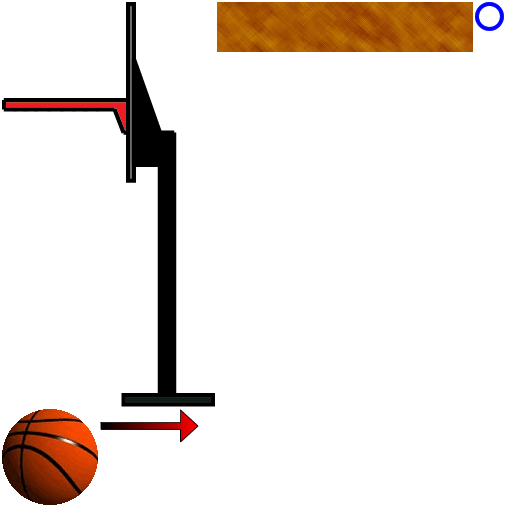
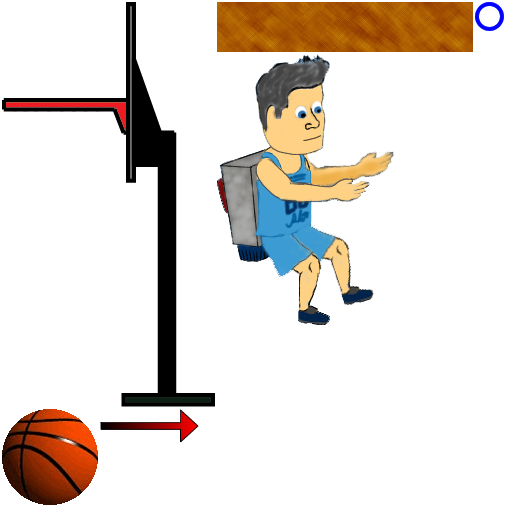
Jetpack Man added, Press Space to hover

Changed region(s): [[0.4062, 0.0938, 0.7812, 0.6562]]

diff --git a/src/com/game/logic/ShootManager.java b/src/com/game/logic/ShootManager.java
@@ -29,10 +29,12 @@ public class ShootManager implements ContactListener {
 	private Image Indicator;
 	Body body;
 	World world;
-	public ShootManager (UIManager uiManager,World world)
+	Game game;
+	public ShootManager (Game g)
 	{
-		UIManager=uiManager;	
-		this.world=world;
+		UIManager=g.UIManager;	
+		this.world=g.world;
+		game=g;
 		Image ok=UIManager.AddImage("ok", Scaling.stretch, Align.LEFT, new Vector2(0,0));
 		ok.originX=0;
 		ok.originY=ok.height/2;
@@ -61,8 +63,8 @@ public class ShootManager implements ContactListener {
 		};
 		image.height = 50;
 		image.width = 50;
-		image.x = 100;
-		image.y = 100;
+		image.x = g.player.getTutusPos().x;
+		image.y = g.player.getTutusPos().y;
 		image.originX=image.width/2;
 		image.originY=image.height/2;
 		image.visible=true;
@@ -70,8 +72,9 @@ public class ShootManager implements ContactListener {
 		
 		BodyDef boxBodyDef = new BodyDef();
 		boxBodyDef.type = BodyType.DynamicBody;
-		boxBodyDef.position.x = 125;
-		boxBodyDef.position.y = 125;
+		boxBodyDef.position.x = image.x+image.width/2;
+		boxBodyDef.position.y = image.y+image.height/2;
+		boxBodyDef.active=false;
 		body = world.createBody(boxBodyDef);
 
 		PolygonShape ps;
@@ -123,14 +126,18 @@ public class ShootManager implements ContactListener {
 		float px=body.getPosition().x;
 		float py=body.getPosition().y;
 		body.applyLinearImpulse(dx*100, dy*100, px,py);
+		body.setActive(true);
 		
 	}
 	public void Update()
 	{
 		Actor ball=UIManager.GetStage("oyun").findActor("top");
-		ball.x=body.getPosition().x-ball.width/2;
-		ball.y=body.getPosition().y-ball.height/2;
-		ball.rotation=(float) Math.toDegrees(body.getAngle());
+		if(body.isActive() && !isReady)
+		{
+			ball.x=body.getPosition().x-ball.width/2;
+			ball.y=body.getPosition().y-ball.height/2;
+			ball.rotation=(float) Math.toDegrees(body.getAngle());
+		}
 		if(
 				body.getPosition().x>Gdx.graphics.getWidth()-350-20 &&
 				body.getPosition().x<Gdx.graphics.getWidth()-350+20 &&
@@ -138,12 +145,15 @@ public class ShootManager implements ContactListener {
 				body.getPosition().y<340+10
 		)
 		{
-			
+			System.out.println("shot");
+			isReady=true;
+			body.setActive(false);
 		}
-		if(!isReady)
+		if(isReady)
 		{
-			
-			//Projectile.Update();
+			ball.x = game.player.getTutusPos().x;
+			ball.y = game.player.getTutusPos().y;		
+			body.setTransform(ball.x+ball.width/2, ball.y+ball.height/2, 0);
 		}
 	}
 	Body LastHit;

diff --git a/src/com/game/logic/Player.java b/src/com/game/logic/Player.java
@@ -1,0 +1,53 @@
+package com.game.logic;
+
+import com.badlogic.gdx.Gdx;
+import com.badlogic.gdx.Input;
+import com.badlogic.gdx.math.Vector2;
+import com.badlogic.gdx.physics.box2d.Body;
+import com.badlogic.gdx.physics.box2d.BodyDef;
+import com.badlogic.gdx.physics.box2d.BodyDef.BodyType;
+import com.badlogic.gdx.physics.box2d.PolygonShape;
+import com.badlogic.gdx.scenes.scene2d.ui.Align;
+import com.badlogic.gdx.scenes.scene2d.ui.Image;
+import com.badlogic.gdx.utils.Scaling;
+import com.game.core.GameObject;
+
+public class Player extends GameObject {
+	Game game;
+	Vector2 TopTutma_RelativePos=new Vector2(120,140);
+	Image playerImage;
+	Body playerBody;
+	public Player(Game g)
+	{
+		game=g;
+		playerImage=g.UIManager.AddImage("karakter", Scaling.none, Align.LEFT, new Vector2(50,25));
+        PolygonShape duvarBox = new PolygonShape();  
+        duvarBox.setAsBox(playerImage.getPrefWidth()/2, playerImage.getPrefHeight()/2);
+        
+		BodyDef bd =new BodyDef();  
+		bd.type=BodyType.DynamicBody;
+		bd.position.set(new Vector2(playerImage.x+playerImage.getPrefWidth()/2,playerImage.y+playerImage.getPrefHeight()/2));  
+		playerBody = g.world.createBody(bd); 
+		
+		playerBody.createFixture(duvarBox, 0.5f); 
+	}
+	public Vector2 getTutusPos()
+	{
+		Vector2 temp=new Vector2(playerImage.getImageX(),playerImage.getImageY());
+		Image.toScreenCoordinates(playerImage, temp);
+		float x=temp.x+TopTutma_RelativePos.x;
+		float y=temp.y+TopTutma_RelativePos.y;
+		return new Vector2(x,y);
+	}
+	@Override
+	public void Update() {
+		Vector2 bodyPos=playerBody.getPosition();
+		playerImage.x=bodyPos.x-playerImage.getPrefWidth()/2;
+		playerImage.y=bodyPos.y-playerImage.getPrefHeight()/2;
+		playerImage.rotation=(float) Math.toDegrees(playerBody.getAngle());
+		if(Gdx.input.isKeyPressed(Input.Keys.SPACE))
+		{
+			playerBody.applyLinearImpulse(new Vector2(0,10000), bodyPos);
+		}
+	}
+}

diff --git a/src/com/game/logic/Game.java b/src/com/game/logic/Game.java
@@ -45,7 +45,7 @@ public class Game implements ApplicationListener {
     static final float BOX_STEP=1/45f;  
     static final int BOX_VELOCITY_ITERATIONS=6;  
     static final int BOX_POSITION_ITERATIONS=2; 
-    
+    Player player;
     
 	@Override
 	public void create() {	
@@ -56,12 +56,10 @@ public class Game implements ApplicationListener {
 		glViewport = new Rectangle(0, 0, Gdx.graphics.getWidth(), Gdx.graphics.getHeight());
 		cam.setToOrtho(false, Gdx.graphics.getWidth(), Gdx.graphics.getHeight());	
 
-		UIManager=new UIManager();	
-		ShootManager=new ShootManager(UIManager,world);
-		world.setContactListener(ShootManager);      
+    
 		BodyEditorLoader loader = new BodyEditorLoader(Gdx.files.internal("data/box2d.json"));
 		
-		UIManager.AddStage("oyun",new Stage(Gdx.graphics.getWidth(),Gdx.graphics.getHeight(),false));
+		
 
         PolygonShape groundBox = new PolygonShape();  
         groundBox.setAsBox((cam.viewportWidth), 5); 
@@ -84,8 +82,14 @@ public class Game implements ApplicationListener {
         Body sagKolonBody = world.createBody(sagKolon);  
         sagKolonBody.createFixture(duvarBox, 1.0f); 
 
-
+		
+		UIManager=new UIManager();	
+		UIManager.AddStage("oyun",new Stage(Gdx.graphics.getWidth(),Gdx.graphics.getHeight(),false));
         UIManager.AddImage("taban",Scaling.fillX,Align.TOP,new Vector2(0,0),new Vector2(Gdx.graphics.getWidth(),50));
+
+		player=new Player(this);
+		ShootManager=new ShootManager(this);
+		world.setContactListener(ShootManager);  
 		Image pota=UIManager.AddImage("pota",Scaling.none,Align.LEFT,new Vector2(Gdx.graphics.getWidth()-250,25));
 		BodyDef bd = new BodyDef();
 		bd.type = BodyType.StaticBody;
@@ -111,6 +115,7 @@ public class Game implements ApplicationListener {
 			cam.apply(gl);
 			UIManager.Draw();
 			ShootManager.Update();
+			player.Update();
 		}
 		Gdx.graphics.getGL10().glFlush();	
 	}

diff --git a/src/com/game/core/GameObject.java b/src/com/game/core/GameObject.java
@@ -1,0 +1,5 @@
+package com.game.core;
+
+public abstract class GameObject {
+	public abstract void Update();
+}
